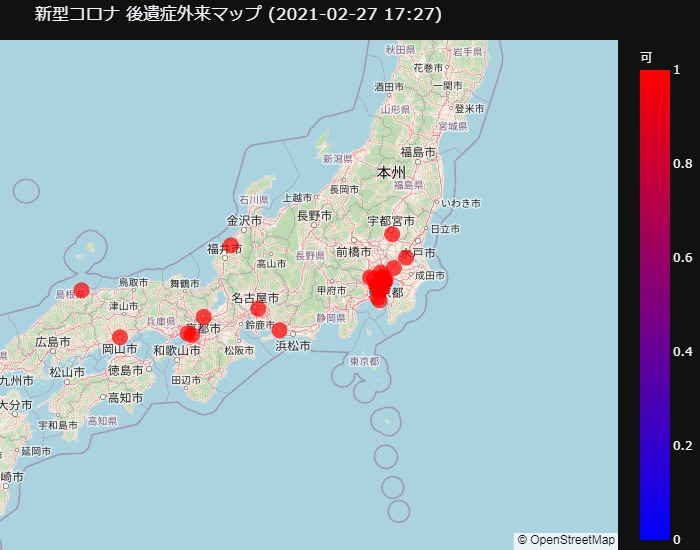
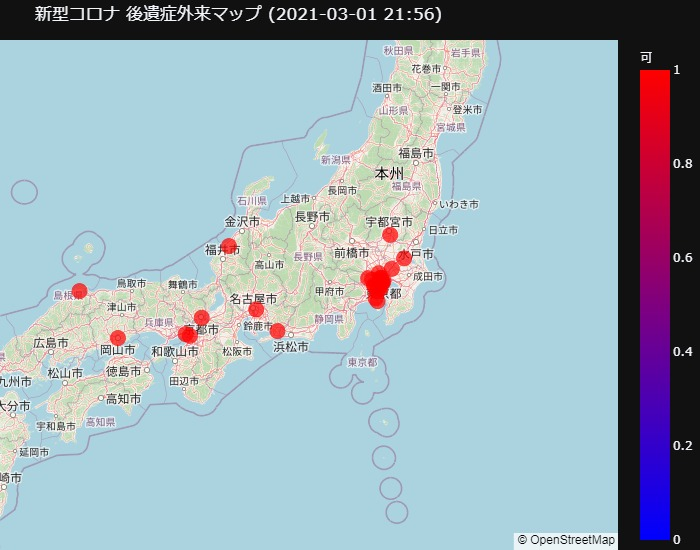
Updated with latest data.

diff --git a/docs/_includes/longcovid-map.html b/docs/_includes/longcovid-map.html
@@ -1,1 +1,1 @@
-<div>                            <div id="09ca5025-fea4-443c-b667-25869b5095d2" class="plotly-graph-div" style="height:550px; width:100%;"></div>            <script type="text/javascript">                                    window.PLOTLYENV=window.PLOTLYENV || {};                                    if (document.getElementById("09ca5025-fea4-443c-b667-25869b5095d2")) {                    Plotly.newPlot(                        "09ca5025-fea4-443c-b667-25869b5095d2",                        [{"customdata": [["-", "-", "2\u9031\u9593\u4ee5\u4e0a\u7d4c\u904e"], ["?", "?", "?"], ["\u53ef", "-", "\u521d\u8a3a\u3067\u3082\u53ef"], ["?", "?", "?"], ["?", "?", "?"], ["-", "\u4e00\u65b9", "16\u6b73\u4ee5\u4e0a\u3001\u57fa\u672c\u306f\u6f22\u65b9"], ["-", "-", "2\u301c3\u30ab\u6708\u7d4c\u904e\u3001\u8af8\u75c7\u72b6\u6709"], ["\u53ef", "\u5fc5\u8981", "\u521d\u8a3a\u3067\u3082\u53ef"], ["?", "?", "\u57fa\u672c\u306f\u6f22\u65b9\u3001\u8981\u554f\u5408\u305b"], ["?", "?", "\u57fa\u672c\u306f\u6f22\u65b9\u3001\u8981\u554f\u5408\u305b"], ["?", "?", "\u57fa\u672c\u306f\u6f22\u65b9\u3001\u8981\u554f\u5408\u305b"], ["\u53ef", "-", "\u57fa\u672c\u306f\u6f22\u65b9\u3001\u81ea\u7531\u8a3a\u7642"], ["\u53ef", "-", "-"], ["-", "-", "\u55c5\u899a\u5473\u899a\u969c\u5bb3\u5916\u6765"], ["-", "\u5fc5\u8981", "2\u30ab\u6708\u4ee5\u4e0a\u7d4c\u904e"], ["-", "-", "\u6765\u9662\u304c\u57fa\u672c"], ["\u53ef", "-", "-"], ["-", "-", "\u9694\u96e2\u671f\u9593\u7d42\u4e86"], ["?", "?", "\u7642\u990a\u7d42\u4e86\u5f8c"], ["?", "?", "\u767a\u75c73\u9031\u9593\u5f8c"], ["-", "-", "\u9000\u9662/\u7642\u990a\u5f8c2\u304b\u6708"], ["-", "-", "\u521d\u8a3a\u306f\u5bfe\u9762\u8a3a\u5bdf/\u691c\u67fb"], ["-", "-", "-"], ["?", "?", "\u795e\u7d4c\u75c7\u72b6\u4e2d\u5fc3"], ["-", "-", "\u7d39\u4ecb\u72b6\u304c\u3042\u3063\u305f\u65b9\u304c\u826f\u3044"], ["-", "\u5fc5\u8981", "3\u30ab\u6708\u4ee5\u4e0a\u7d4c\u904e"], ["?", "?", "-"], ["-", "?", "-"], ["-", "\u5fc5\u8981", "1\u30ab\u6708\u4ee5\u4e0a\u7d4c\u904e"], ["\u53ef", "-", "\u5bfe\u9762\u8a3a\u7642\u306e\u53ef\u80fd\u6027\u6709"], ["-", "-", "-"], ["-", "-", "1\u30ab\u6708\u4ee5\u4e0a\u7d4c\u904e"]], "hovertemplate": "<b>%{hovertext}</b><br><br>\u53ef=%{marker.color}<br>\u7def\u5ea6=%{lat}<br>\u7d4c\u5ea6=%{lon}<br>\u30aa\u30f3\u30e9\u30a4\u30f3=%{customdata[0]}<br>\u7d39\u4ecb\u72b6=%{customdata[1]}<br>\u6761\u4ef6=%{customdata[2]}<extra></extra>", "hovertext": ["\u30a4\u30f3\u30bf\u30fc\u30d1\u30fc\u30af\u5009\u6301\u547c\u5438\u5668\u5185\u79d1", "\u3064\u3061\u3046\u3089\u6771\u53e3\u30af\u30ea\u30cb\u30c3\u30af", "\u30d2\u30e9\u30cf\u30bf\u30af\u30ea\u30cb\u30c3\u30af", "\u9663\u5185\u8033\u9f3b\u54bd\u5589\u79d1\u30af\u30ea\u30cb\u30c3\u30af", "\u65b0\u4e2d\u91ce\u8033\u9f3b\u54bd\u5589\u79d1\u30af\u30ea\u30cb\u30c3\u30af", "\u5bfa\u7530\u30af\u30ea\u30cb\u30c3\u30af", "\u3082\u3061\u3065\u304d\u8033\u9f3b\u54bd\u5589\u79d1", "\u5317\u91cc\u5927\u5b66\u6771\u6d0b\u533b\u5b66\u7dcf\u5408\u7814\u7a76\u6240", "\u5c0f\u91d1\u4e95\u3064\u308b\u304b\u3081\u30af\u30ea\u30cb\u30c3\u30af", "\u307f\u306e\u3084\u307e\u30af\u30ea\u30cb\u30c3\u30af", "\u307f\u306e\u3084\u307e\u30af\u30ea\u30cb\u30c3\u30af\u7acb\u5ddd", "\u6771\u6587\u4e2d\u91ab\u30af\u30ea\u30cb\u30c3\u30af\u30fb\u65b0\u6a4b", "\u516c\u5e73\u75c5\u9662", "\u30af\u30ea\u30cb\u30c3\u30af\u67cf\u306e\u8449", "\u8056\u30de\u30ea\u30a2\u30f3\u30ca\u533b\u79d1\u5927\u5b66\u75c5\u9662", "\u6a2a\u6d5c\u304b\u3093\u3060\u3044\u3058\u30d5\u30a1\u30df\u30ea\u30fc\u30af\u30ea\u30cb\u30c3\u30af", "\u68b6\u304c\u8c37\u99c5\u524d\u30af\u30ea\u30cb\u30c3\u30af", "\u65b0\u5ddd\u5d0e\u3080\u3089\u305b\u5185\u79d1\u5faa\u74b0\u5668\u5185\u79d1", "\u6a2a\u6d5c\u307f\u306a\u3068\u547c\u5438\u5668\u5185\u79d1", "\u6e58\u5357\u75c5\u9662", "\u7b2c\u4e8c\u5ddd\u5d0e\u5e78\u30af\u30ea\u30cb\u30c3\u30af", "\u571f\u5c4b\u8a18\u5ff5\u30af\u30ea\u30cb\u30c3\u30af", "\u672b\u76db\u5185\u79d1\u30af\u30ea\u30cb\u30c3\u30af", "\u4f50\u85e4\u8133\u795e\u7d4c\u5916\u79d1\u30fb\u5185\u79d1\u30fb\u5916\u79d1", "\u306a\u304c\u305f\u30af\u30ea\u30cb\u30c3\u30af", "\u30ca\u30ab\u30c8\u30df\u30d5\u30a1\u30c6\u30a3\u30fc\u30b0\u30b1\u30a2\u30af\u30ea\u30cb\u30c3\u30af", "\u5fa1\u6240\u5357\u306f\u3089\u3057\u307e\u30af\u30ea\u30cb\u30c3\u30af", "\u9577\u5c3e\u30af\u30ea\u30cb\u30c3\u30af", "\u5ca1\u5c71\u5927\u5b66\u75c5\u9662", "\u798f\u7530\u5185\u79d1\u30af\u30ea\u30cb\u30c3\u30af", "\u5929\u795e\u3051\u3084\u304d\u30af\u30ea\u30cb\u30c3\u30af", "\u307f\u3089\u3044\u30af\u30ea\u30cb\u30c3\u30af"], "lat": [36.49421483, 36.07817712, 35.66099144, 35.67554272, 35.69746127, 35.72952117, 35.73184532, 35.64615518, 35.70092207, 35.65562198, 35.72698343, 35.66930295, 35.81312769, 35.89270812, 35.60075469, 35.48523182, 35.5937929, 35.55188904, 35.36818996, 35.31605077, 35.53647462, 35.57040779, 35.16620719, 34.77666781, 36.29685202, 34.690363399999995, 35.01644912, 34.72288787, 34.65090647, 35.49501807, 33.58607487, 33.59038441], "legendgroup": "", "lon": [139.9027937, 140.207013, 139.70208080000003, 139.6681197, 139.6692997, 139.6931743, 139.7026409, 139.72627219999998, 139.5058372, 139.73607180000002, 139.4179435, 139.7537904, 139.6527044, 139.9377533, 139.5488861, 139.61037869999998, 139.6063036, 139.6629341, 139.58114630000003, 139.6242106, 139.689216, 139.55500580000003, 136.9580622, 137.4248136, 136.3598447, 135.49824080000002, 135.76120600000002, 135.4083263, 133.9206308, 133.0761817, 130.3950466, 130.423525], "marker": {"color": [1, 1, 1, 1, 1, 1, 1, 1, 1, 1, 1, 1, 1, 1, 1, 1, 1, 1, 1, 1, 1, 1, 1, 1, 1, 1, 1, 1, 1, 1, 0, 1], "coloraxis": "coloraxis", "size": [1, 1, 1, 1, 1, 1, 1, 1, 1, 1, 1, 1, 1, 1, 1, 1, 1, 1, 1, 1, 1, 1, 1, 1, 1, 1, 1, 1, 1, 1, 0, 1], "sizemode": "area", "sizeref": 0.006944444444444444}, "mode": "markers", "name": "", "showlegend": false, "subplot": "mapbox", "type": "scattermapbox"}],                        {"coloraxis": {"colorbar": {"title": {"text": "\u53ef"}}, "colorscale": [[0.0, "rgb(0,0,255)"], [1.0, "rgb(255,0,0)"]]}, "height": 550, "legend": {"itemsizing": "constant", "tracegroupgap": 0}, "mapbox": {"center": {"lat": 35.412099315937496, "lon": 138.07435793125}, "domain": {"x": [0.0, 1.0], "y": [0.0, 1.0]}, "style": "open-street-map", "zoom": 5}, "margin": {"b": 0, "l": 0, "r": 0, "t": 40}, "template": {"data": {"bar": [{"error_x": {"color": "#f2f5fa"}, "error_y": {"color": "#f2f5fa"}, "marker": {"line": {"color": "rgb(17,17,17)", "width": 0.5}}, "type": "bar"}], "barpolar": [{"marker": {"line": {"color": "rgb(17,17,17)", "width": 0.5}}, "type": "barpolar"}], "carpet": [{"aaxis": {"endlinecolor": "#A2B1C6", "gridcolor": "#506784", "linecolor": "#506784", "minorgridcolor": "#506784", "startlinecolor": "#A2B1C6"}, "baxis": {"endlinecolor": "#A2B1C6", "gridcolor": "#506784", "linecolor": "#506784", "minorgridcolor": "#506784", "startlinecolor": "#A2B1C6"}, "type": "carpet"}], "choropleth": [{"colorbar": {"outlinewidth": 0, "ticks": ""}, "type": "choropleth"}], "contour": [{"colorbar": {"outlinewidth": 0, "ticks": ""}, "colorscale": [[0.0, "#0d0887"], [0.1111111111111111, "#46039f"], [0.2222222222222222, "#7201a8"], [0.3333333333333333, "#9c179e"], [0.4444444444444444, "#bd3786"], [0.5555555555555556, "#d8576b"], [0.6666666666666666, "#ed7953"], [0.7777777777777778, "#fb9f3a"], [0.8888888888888888, "#fdca26"], [1.0, "#f0f921"]], "type": "contour"}], "contourcarpet": [{"colorbar": {"outlinewidth": 0, "ticks": ""}, "type": "contourcarpet"}], "heatmap": [{"colorbar": {"outlinewidth": 0, "ticks": ""}, "colorscale": [[0.0, "#0d0887"], [0.1111111111111111, "#46039f"], [0.2222222222222222, "#7201a8"], [0.3333333333333333, "#9c179e"], [0.4444444444444444, "#bd3786"], [0.5555555555555556, "#d8576b"], [0.6666666666666666, "#ed7953"], [0.7777777777777778, "#fb9f3a"], [0.8888888888888888, "#fdca26"], [1.0, "#f0f921"]], "type": "heatmap"}], "heatmapgl": [{"colorbar": {"outlinewidth": 0, "ticks": ""}, "colorscale": [[0.0, "#0d0887"], [0.1111111111111111, "#46039f"], [0.2222222222222222, "#7201a8"], [0.3333333333333333, "#9c179e"], [0.4444444444444444, "#bd3786"], [0.5555555555555556, "#d8576b"], [0.6666666666666666, "#ed7953"], [0.7777777777777778, "#fb9f3a"], [0.8888888888888888, "#fdca26"], [1.0, "#f0f921"]], "type": "heatmapgl"}], "histogram": [{"marker": {"colorbar": {"outlinewidth": 0, "ticks": ""}}, "type": "histogram"}], "histogram2d": [{"colorbar": {"outlinewidth": 0, "ticks": ""}, "colorscale": [[0.0, "#0d0887"], [0.1111111111111111, "#46039f"], [0.2222222222222222, "#7201a8"], [0.3333333333333333, "#9c179e"], [0.4444444444444444, "#bd3786"], [0.5555555555555556, "#d8576b"], [0.6666666666666666, "#ed7953"], [0.7777777777777778, "#fb9f3a"], [0.8888888888888888, "#fdca26"], [1.0, "#f0f921"]], "type": "histogram2d"}], "histogram2dcontour": [{"colorbar": {"outlinewidth": 0, "ticks": ""}, "colorscale": [[0.0, "#0d0887"], [0.1111111111111111, "#46039f"], [0.2222222222222222, "#7201a8"], [0.3333333333333333, "#9c179e"], [0.4444444444444444, "#bd3786"], [0.5555555555555556, "#d8576b"], [0.6666666666666666, "#ed7953"], [0.7777777777777778, "#fb9f3a"], [0.8888888888888888, "#fdca26"], [1.0, "#f0f921"]], "type": "histogram2dcontour"}], "mesh3d": [{"colorbar": {"outlinewidth": 0, "ticks": ""}, "type": "mesh3d"}], "parcoords": [{"line": {"colorbar": {"outlinewidth": 0, "ticks": ""}}, "type": "parcoords"}], "pie": [{"automargin": true, "type": "pie"}], "scatter": [{"marker": {"line": {"color": "#283442"}}, "type": "scatter"}], "scatter3d": [{"line": {"colorbar": {"outlinewidth": 0, "ticks": ""}}, "marker": {"colorbar": {"outlinewidth": 0, "ticks": ""}}, "type": "scatter3d"}], "scattercarpet": [{"marker": {"colorbar": {"outlinewidth": 0, "ticks": ""}}, "type": "scattercarpet"}], "scattergeo": [{"marker": {"colorbar": {"outlinewidth": 0, "ticks": ""}}, "type": "scattergeo"}], "scattergl": [{"marker": {"line": {"color": "#283442"}}, "type": "scattergl"}], "scattermapbox": [{"marker": {"colorbar": {"outlinewidth": 0, "ticks": ""}}, "type": "scattermapbox"}], "scatterpolar": [{"marker": {"colorbar": {"outlinewidth": 0, "ticks": ""}}, "type": "scatterpolar"}], "scatterpolargl": [{"marker": {"colorbar": {"outlinewidth": 0, "ticks": ""}}, "type": "scatterpolargl"}], "scatterternary": [{"marker": {"colorbar": {"outlinewidth": 0, "ticks": ""}}, "type": "scatterternary"}], "surface": [{"colorbar": {"outlinewidth": 0, "ticks": ""}, "colorscale": [[0.0, "#0d0887"], [0.1111111111111111, "#46039f"], [0.2222222222222222, "#7201a8"], [0.3333333333333333, "#9c179e"], [0.4444444444444444, "#bd3786"], [0.5555555555555556, "#d8576b"], [0.6666666666666666, "#ed7953"], [0.7777777777777778, "#fb9f3a"], [0.8888888888888888, "#fdca26"], [1.0, "#f0f921"]], "type": "surface"}], "table": [{"cells": {"fill": {"color": "#506784"}, "line": {"color": "rgb(17,17,17)"}}, "header": {"fill": {"color": "#2a3f5f"}, "line": {"color": "rgb(17,17,17)"}}, "type": "table"}]}, "layout": {"annotationdefaults": {"arrowcolor": "#f2f5fa", "arrowhead": 0, "arrowwidth": 1}, "autotypenumbers": "strict", "coloraxis": {"colorbar": {"outlinewidth": 0, "ticks": ""}}, "colorscale": {"diverging": [[0, "#8e0152"], [0.1, "#c51b7d"], [0.2, "#de77ae"], [0.3, "#f1b6da"], [0.4, "#fde0ef"], [0.5, "#f7f7f7"], [0.6, "#e6f5d0"], [0.7, "#b8e186"], [0.8, "#7fbc41"], [0.9, "#4d9221"], [1, "#276419"]], "sequential": [[0.0, "#0d0887"], [0.1111111111111111, "#46039f"], [0.2222222222222222, "#7201a8"], [0.3333333333333333, "#9c179e"], [0.4444444444444444, "#bd3786"], [0.5555555555555556, "#d8576b"], [0.6666666666666666, "#ed7953"], [0.7777777777777778, "#fb9f3a"], [0.8888888888888888, "#fdca26"], [1.0, "#f0f921"]], "sequentialminus": [[0.0, "#0d0887"], [0.1111111111111111, "#46039f"], [0.2222222222222222, "#7201a8"], [0.3333333333333333, "#9c179e"], [0.4444444444444444, "#bd3786"], [0.5555555555555556, "#d8576b"], [0.6666666666666666, "#ed7953"], [0.7777777777777778, "#fb9f3a"], [0.8888888888888888, "#fdca26"], [1.0, "#f0f921"]]}, "colorway": ["#636efa", "#EF553B", "#00cc96", "#ab63fa", "#FFA15A", "#19d3f3", "#FF6692", "#B6E880", "#FF97FF", "#FECB52"], "font": {"color": "#f2f5fa"}, "geo": {"bgcolor": "rgb(17,17,17)", "lakecolor": "rgb(17,17,17)", "landcolor": "rgb(17,17,17)", "showlakes": true, "showland": true, "subunitcolor": "#506784"}, "hoverlabel": {"align": "left"}, "hovermode": "closest", "mapbox": {"style": "dark"}, "paper_bgcolor": "rgb(17,17,17)", "plot_bgcolor": "rgb(17,17,17)", "polar": {"angularaxis": {"gridcolor": "#506784", "linecolor": "#506784", "ticks": ""}, "bgcolor": "rgb(17,17,17)", "radialaxis": {"gridcolor": "#506784", "linecolor": "#506784", "ticks": ""}}, "scene": {"xaxis": {"backgroundcolor": "rgb(17,17,17)", "gridcolor": "#506784", "gridwidth": 2, "linecolor": "#506784", "showbackground": true, "ticks": "", "zerolinecolor": "#C8D4E3"}, "yaxis": {"backgroundcolor": "rgb(17,17,17)", "gridcolor": "#506784", "gridwidth": 2, "linecolor": "#506784", "showbackground": true, "ticks": "", "zerolinecolor": "#C8D4E3"}, "zaxis": {"backgroundcolor": "rgb(17,17,17)", "gridcolor": "#506784", "gridwidth": 2, "linecolor": "#506784", "showbackground": true, "ticks": "", "zerolinecolor": "#C8D4E3"}}, "shapedefaults": {"line": {"color": "#f2f5fa"}}, "sliderdefaults": {"bgcolor": "#C8D4E3", "bordercolor": "rgb(17,17,17)", "borderwidth": 1, "tickwidth": 0}, "ternary": {"aaxis": {"gridcolor": "#506784", "linecolor": "#506784", "ticks": ""}, "baxis": {"gridcolor": "#506784", "linecolor": "#506784", "ticks": ""}, "bgcolor": "rgb(17,17,17)", "caxis": {"gridcolor": "#506784", "linecolor": "#506784", "ticks": ""}}, "title": {"x": 0.05}, "updatemenudefaults": {"bgcolor": "#506784", "borderwidth": 0}, "xaxis": {"automargin": true, "gridcolor": "#283442", "linecolor": "#506784", "ticks": "", "title": {"standoff": 15}, "zerolinecolor": "#283442", "zerolinewidth": 2}, "yaxis": {"automargin": true, "gridcolor": "#283442", "linecolor": "#506784", "ticks": "", "title": {"standoff": 15}, "zerolinecolor": "#283442", "zerolinewidth": 2}}}, "title": {"text": "\u65b0\u578b\u30b3\u30ed\u30ca \u5f8c\u907a\u75c7\u5916\u6765\u30de\u30c3\u30d7 (2021-02-27 17:27)"}},                        {"responsive": true}                    )                };                            </script>        </div>
+<div>                            <div id="1dfd35a6-3fb7-4fd1-b5f1-62437581516c" class="plotly-graph-div" style="height:550px; width:100%;"></div>            <script type="text/javascript">                                    window.PLOTLYENV=window.PLOTLYENV || {};                                    if (document.getElementById("1dfd35a6-3fb7-4fd1-b5f1-62437581516c")) {                    Plotly.newPlot(                        "1dfd35a6-3fb7-4fd1-b5f1-62437581516c",                        [{"customdata": [["-", "-", "2\u9031\u9593\u4ee5\u4e0a\u7d4c\u904e"], ["?", "?", "?"], ["\u53ef", "-", "\u521d\u8a3a\u3067\u3082\u53ef"], ["?", "?", "?"], ["?", "?", "?"], ["-", "\u4e00\u65b9", "16\u6b73\u4ee5\u4e0a\u3001\u57fa\u672c\u306f\u6f22\u65b9"], ["-", "-", "2\u301c3\u30ab\u6708\u7d4c\u904e\u3001\u8af8\u75c7\u72b6\u6709"], ["\u53ef", "\u5fc5\u8981", "\u521d\u8a3a\u3067\u3082\u53ef"], ["?", "?", "\u57fa\u672c\u306f\u6f22\u65b9\u3001\u8981\u554f\u5408\u305b"], ["?", "?", "\u57fa\u672c\u306f\u6f22\u65b9\u3001\u8981\u554f\u5408\u305b"], ["?", "?", "\u57fa\u672c\u306f\u6f22\u65b9\u3001\u8981\u554f\u5408\u305b"], ["\u53ef", "-", "\u57fa\u672c\u306f\u6f22\u65b9\u3001\u81ea\u7531\u8a3a\u7642"], ["\u53ef", "-", "-"], ["\u53ef", "-", "3\u6708\u4e2d\u65ec\u301c\u4e0b\u65ec\u306b\u65b0\u8a2d\u4e88\u5b9a"], ["-", "-", "\u55c5\u899a\u5473\u899a\u969c\u5bb3\u5916\u6765"], ["-", "\u5fc5\u8981", "2\u30ab\u6708\u4ee5\u4e0a\u7d4c\u904e"], ["-", "-", "\u6765\u9662\u304c\u57fa\u672c"], ["\u53ef", "-", "-"], ["-", "-", "\u9694\u96e2\u671f\u9593\u7d42\u4e86"], ["?", "?", "\u7642\u990a\u7d42\u4e86\u5f8c"], ["?", "?", "\u767a\u75c73\u9031\u9593\u5f8c"], ["-", "-", "\u9000\u9662/\u7642\u990a\u5f8c2\u304b\u6708"], ["-", "-", "\u521d\u8a3a\u306f\u5bfe\u9762\u8a3a\u5bdf/\u691c\u67fb"], ["-", "-", "-"], ["?", "?", "\u795e\u7d4c\u75c7\u72b6\u4e2d\u5fc3"], ["-", "-", "\u7d39\u4ecb\u72b6\u304c\u3042\u3063\u305f\u65b9\u304c\u826f\u3044"], ["-", "\u5fc5\u8981", "3\u30ab\u6708\u4ee5\u4e0a\u7d4c\u904e"], ["?", "?", "-"], ["-", "?", "-"], ["-", "\u5fc5\u8981", "1\u30ab\u6708\u4ee5\u4e0a\u7d4c\u904e"], ["\u53ef", "-", "\u5bfe\u9762\u8a3a\u7642\u306e\u53ef\u80fd\u6027\u6709"], ["-", "-", "-"], ["-", "-", "1\u30ab\u6708\u4ee5\u4e0a\u7d4c\u904e"]], "hovertemplate": "<b>%{hovertext}</b><br><br>\u53ef=%{marker.color}<br>\u7def\u5ea6=%{lat}<br>\u7d4c\u5ea6=%{lon}<br>\u30aa\u30f3\u30e9\u30a4\u30f3=%{customdata[0]}<br>\u7d39\u4ecb\u72b6=%{customdata[1]}<br>\u6761\u4ef6=%{customdata[2]}<extra></extra>", "hovertext": ["\u30a4\u30f3\u30bf\u30fc\u30d1\u30fc\u30af\u5009\u6301\u547c\u5438\u5668\u5185\u79d1", "\u3064\u3061\u3046\u3089\u6771\u53e3\u30af\u30ea\u30cb\u30c3\u30af", "\u30d2\u30e9\u30cf\u30bf\u30af\u30ea\u30cb\u30c3\u30af", "\u9663\u5185\u8033\u9f3b\u54bd\u5589\u79d1\u30af\u30ea\u30cb\u30c3\u30af", "\u65b0\u4e2d\u91ce\u8033\u9f3b\u54bd\u5589\u79d1\u30af\u30ea\u30cb\u30c3\u30af", "\u5bfa\u7530\u30af\u30ea\u30cb\u30c3\u30af", "\u3082\u3061\u3065\u304d\u8033\u9f3b\u54bd\u5589\u79d1", "\u5317\u91cc\u5927\u5b66\u6771\u6d0b\u533b\u5b66\u7dcf\u5408\u7814\u7a76\u6240", "\u5c0f\u91d1\u4e95\u3064\u308b\u304b\u3081\u30af\u30ea\u30cb\u30c3\u30af", "\u307f\u306e\u3084\u307e\u30af\u30ea\u30cb\u30c3\u30af", "\u307f\u306e\u3084\u307e\u30af\u30ea\u30cb\u30c3\u30af\u7acb\u5ddd", "\u6771\u6587\u4e2d\u91ab\u30af\u30ea\u30cb\u30c3\u30af\u30fb\u65b0\u6a4b", "\u516c\u5e73\u75c5\u9662", "\u3075\u3058\u307f\u306e\u6551\u6025\u75c5\u9662", "\u30af\u30ea\u30cb\u30c3\u30af\u67cf\u306e\u8449", "\u8056\u30de\u30ea\u30a2\u30f3\u30ca\u533b\u79d1\u5927\u5b66\u75c5\u9662", "\u6a2a\u6d5c\u304b\u3093\u3060\u3044\u3058\u30d5\u30a1\u30df\u30ea\u30fc\u30af\u30ea\u30cb\u30c3\u30af", "\u68b6\u304c\u8c37\u99c5\u524d\u30af\u30ea\u30cb\u30c3\u30af", "\u65b0\u5ddd\u5d0e\u3080\u3089\u305b\u5185\u79d1\u5faa\u74b0\u5668\u5185\u79d1", "\u6a2a\u6d5c\u307f\u306a\u3068\u547c\u5438\u5668\u5185\u79d1", "\u6e58\u5357\u75c5\u9662", "\u7b2c\u4e8c\u5ddd\u5d0e\u5e78\u30af\u30ea\u30cb\u30c3\u30af", "\u571f\u5c4b\u8a18\u5ff5\u30af\u30ea\u30cb\u30c3\u30af", "\u672b\u76db\u5185\u79d1\u30af\u30ea\u30cb\u30c3\u30af", "\u4f50\u85e4\u8133\u795e\u7d4c\u5916\u79d1\u30fb\u5185\u79d1\u30fb\u5916\u79d1", "\u306a\u304c\u305f\u30af\u30ea\u30cb\u30c3\u30af", "\u30ca\u30ab\u30c8\u30df\u30d5\u30a1\u30c6\u30a3\u30fc\u30b0\u30b1\u30a2\u30af\u30ea\u30cb\u30c3\u30af", "\u5fa1\u6240\u5357\u306f\u3089\u3057\u307e\u30af\u30ea\u30cb\u30c3\u30af", "\u9577\u5c3e\u30af\u30ea\u30cb\u30c3\u30af", "\u5ca1\u5c71\u5927\u5b66\u75c5\u9662", "\u798f\u7530\u5185\u79d1\u30af\u30ea\u30cb\u30c3\u30af", "\u5929\u795e\u3051\u3084\u304d\u30af\u30ea\u30cb\u30c3\u30af", "\u307f\u3089\u3044\u30af\u30ea\u30cb\u30c3\u30af"], "lat": [36.49421483, 36.07817712, 35.66099144, 35.67554272, 35.69746127, 35.72952117, 35.73184532, 35.64615518, 35.70092207, 35.65562198, 35.72698343, 35.66930295, 35.81312769, 35.85103279, 35.89270812, 35.60075469, 35.48523182, 35.5937929, 35.55188904, 35.36818996, 35.31605077, 35.53647462, 35.57040779, 35.16620719, 34.77666781, 36.29685202, 34.690363399999995, 35.01644912, 34.72288787, 34.65090647, 35.49501807, 33.58607487, 33.59038441], "legendgroup": "", "lon": [139.9027937, 140.207013, 139.70208080000003, 139.6681197, 139.6692997, 139.6931743, 139.7026409, 139.72627219999998, 139.5058372, 139.73607180000002, 139.4179435, 139.7537904, 139.6527044, 139.50904530000003, 139.9377533, 139.5488861, 139.61037869999998, 139.6063036, 139.6629341, 139.58114630000003, 139.6242106, 139.689216, 139.55500580000003, 136.9580622, 137.4248136, 136.3598447, 135.49824080000002, 135.76120600000002, 135.4083263, 133.9206308, 133.0761817, 130.3950466, 130.423525], "marker": {"color": [1, 1, 1, 1, 1, 1, 1, 1, 1, 1, 1, 1, 1, 0, 1, 1, 1, 1, 1, 1, 1, 1, 1, 1, 1, 1, 1, 1, 1, 1, 1, 0, 1], "coloraxis": "coloraxis", "size": [1, 1, 1, 1, 1, 1, 1, 1, 1, 1, 1, 1, 1, 0, 1, 1, 1, 1, 1, 1, 1, 1, 1, 1, 1, 1, 1, 1, 1, 1, 1, 0, 1], "sizemode": "area", "sizeref": 0.006944444444444444}, "mode": "markers", "name": "", "showlegend": false, "subplot": "mapbox", "type": "scattermapbox"}],                        {"coloraxis": {"colorbar": {"title": {"text": "\u53ef"}}, "colorscale": [[0.0, "rgb(0,0,255)"], [1.0, "rgb(255,0,0)"]]}, "height": 550, "legend": {"itemsizing": "constant", "tracegroupgap": 0}, "mapbox": {"center": {"lat": 35.42540033030303, "lon": 138.11783330606062}, "domain": {"x": [0.0, 1.0], "y": [0.0, 1.0]}, "style": "open-street-map", "zoom": 5}, "margin": {"b": 0, "l": 0, "r": 0, "t": 40}, "template": {"data": {"bar": [{"error_x": {"color": "#f2f5fa"}, "error_y": {"color": "#f2f5fa"}, "marker": {"line": {"color": "rgb(17,17,17)", "width": 0.5}}, "type": "bar"}], "barpolar": [{"marker": {"line": {"color": "rgb(17,17,17)", "width": 0.5}}, "type": "barpolar"}], "carpet": [{"aaxis": {"endlinecolor": "#A2B1C6", "gridcolor": "#506784", "linecolor": "#506784", "minorgridcolor": "#506784", "startlinecolor": "#A2B1C6"}, "baxis": {"endlinecolor": "#A2B1C6", "gridcolor": "#506784", "linecolor": "#506784", "minorgridcolor": "#506784", "startlinecolor": "#A2B1C6"}, "type": "carpet"}], "choropleth": [{"colorbar": {"outlinewidth": 0, "ticks": ""}, "type": "choropleth"}], "contour": [{"colorbar": {"outlinewidth": 0, "ticks": ""}, "colorscale": [[0.0, "#0d0887"], [0.1111111111111111, "#46039f"], [0.2222222222222222, "#7201a8"], [0.3333333333333333, "#9c179e"], [0.4444444444444444, "#bd3786"], [0.5555555555555556, "#d8576b"], [0.6666666666666666, "#ed7953"], [0.7777777777777778, "#fb9f3a"], [0.8888888888888888, "#fdca26"], [1.0, "#f0f921"]], "type": "contour"}], "contourcarpet": [{"colorbar": {"outlinewidth": 0, "ticks": ""}, "type": "contourcarpet"}], "heatmap": [{"colorbar": {"outlinewidth": 0, "ticks": ""}, "colorscale": [[0.0, "#0d0887"], [0.1111111111111111, "#46039f"], [0.2222222222222222, "#7201a8"], [0.3333333333333333, "#9c179e"], [0.4444444444444444, "#bd3786"], [0.5555555555555556, "#d8576b"], [0.6666666666666666, "#ed7953"], [0.7777777777777778, "#fb9f3a"], [0.8888888888888888, "#fdca26"], [1.0, "#f0f921"]], "type": "heatmap"}], "heatmapgl": [{"colorbar": {"outlinewidth": 0, "ticks": ""}, "colorscale": [[0.0, "#0d0887"], [0.1111111111111111, "#46039f"], [0.2222222222222222, "#7201a8"], [0.3333333333333333, "#9c179e"], [0.4444444444444444, "#bd3786"], [0.5555555555555556, "#d8576b"], [0.6666666666666666, "#ed7953"], [0.7777777777777778, "#fb9f3a"], [0.8888888888888888, "#fdca26"], [1.0, "#f0f921"]], "type": "heatmapgl"}], "histogram": [{"marker": {"colorbar": {"outlinewidth": 0, "ticks": ""}}, "type": "histogram"}], "histogram2d": [{"colorbar": {"outlinewidth": 0, "ticks": ""}, "colorscale": [[0.0, "#0d0887"], [0.1111111111111111, "#46039f"], [0.2222222222222222, "#7201a8"], [0.3333333333333333, "#9c179e"], [0.4444444444444444, "#bd3786"], [0.5555555555555556, "#d8576b"], [0.6666666666666666, "#ed7953"], [0.7777777777777778, "#fb9f3a"], [0.8888888888888888, "#fdca26"], [1.0, "#f0f921"]], "type": "histogram2d"}], "histogram2dcontour": [{"colorbar": {"outlinewidth": 0, "ticks": ""}, "colorscale": [[0.0, "#0d0887"], [0.1111111111111111, "#46039f"], [0.2222222222222222, "#7201a8"], [0.3333333333333333, "#9c179e"], [0.4444444444444444, "#bd3786"], [0.5555555555555556, "#d8576b"], [0.6666666666666666, "#ed7953"], [0.7777777777777778, "#fb9f3a"], [0.8888888888888888, "#fdca26"], [1.0, "#f0f921"]], "type": "histogram2dcontour"}], "mesh3d": [{"colorbar": {"outlinewidth": 0, "ticks": ""}, "type": "mesh3d"}], "parcoords": [{"line": {"colorbar": {"outlinewidth": 0, "ticks": ""}}, "type": "parcoords"}], "pie": [{"automargin": true, "type": "pie"}], "scatter": [{"marker": {"line": {"color": "#283442"}}, "type": "scatter"}], "scatter3d": [{"line": {"colorbar": {"outlinewidth": 0, "ticks": ""}}, "marker": {"colorbar": {"outlinewidth": 0, "ticks": ""}}, "type": "scatter3d"}], "scattercarpet": [{"marker": {"colorbar": {"outlinewidth": 0, "ticks": ""}}, "type": "scattercarpet"}], "scattergeo": [{"marker": {"colorbar": {"outlinewidth": 0, "ticks": ""}}, "type": "scattergeo"}], "scattergl": [{"marker": {"line": {"color": "#283442"}}, "type": "scattergl"}], "scattermapbox": [{"marker": {"colorbar": {"outlinewidth": 0, "ticks": ""}}, "type": "scattermapbox"}], "scatterpolar": [{"marker": {"colorbar": {"outlinewidth": 0, "ticks": ""}}, "type": "scatterpolar"}], "scatterpolargl": [{"marker": {"colorbar": {"outlinewidth": 0, "ticks": ""}}, "type": "scatterpolargl"}], "scatterternary": [{"marker": {"colorbar": {"outlinewidth": 0, "ticks": ""}}, "type": "scatterternary"}], "surface": [{"colorbar": {"outlinewidth": 0, "ticks": ""}, "colorscale": [[0.0, "#0d0887"], [0.1111111111111111, "#46039f"], [0.2222222222222222, "#7201a8"], [0.3333333333333333, "#9c179e"], [0.4444444444444444, "#bd3786"], [0.5555555555555556, "#d8576b"], [0.6666666666666666, "#ed7953"], [0.7777777777777778, "#fb9f3a"], [0.8888888888888888, "#fdca26"], [1.0, "#f0f921"]], "type": "surface"}], "table": [{"cells": {"fill": {"color": "#506784"}, "line": {"color": "rgb(17,17,17)"}}, "header": {"fill": {"color": "#2a3f5f"}, "line": {"color": "rgb(17,17,17)"}}, "type": "table"}]}, "layout": {"annotationdefaults": {"arrowcolor": "#f2f5fa", "arrowhead": 0, "arrowwidth": 1}, "autotypenumbers": "strict", "coloraxis": {"colorbar": {"outlinewidth": 0, "ticks": ""}}, "colorscale": {"diverging": [[0, "#8e0152"], [0.1, "#c51b7d"], [0.2, "#de77ae"], [0.3, "#f1b6da"], [0.4, "#fde0ef"], [0.5, "#f7f7f7"], [0.6, "#e6f5d0"], [0.7, "#b8e186"], [0.8, "#7fbc41"], [0.9, "#4d9221"], [1, "#276419"]], "sequential": [[0.0, "#0d0887"], [0.1111111111111111, "#46039f"], [0.2222222222222222, "#7201a8"], [0.3333333333333333, "#9c179e"], [0.4444444444444444, "#bd3786"], [0.5555555555555556, "#d8576b"], [0.6666666666666666, "#ed7953"], [0.7777777777777778, "#fb9f3a"], [0.8888888888888888, "#fdca26"], [1.0, "#f0f921"]], "sequentialminus": [[0.0, "#0d0887"], [0.1111111111111111, "#46039f"], [0.2222222222222222, "#7201a8"], [0.3333333333333333, "#9c179e"], [0.4444444444444444, "#bd3786"], [0.5555555555555556, "#d8576b"], [0.6666666666666666, "#ed7953"], [0.7777777777777778, "#fb9f3a"], [0.8888888888888888, "#fdca26"], [1.0, "#f0f921"]]}, "colorway": ["#636efa", "#EF553B", "#00cc96", "#ab63fa", "#FFA15A", "#19d3f3", "#FF6692", "#B6E880", "#FF97FF", "#FECB52"], "font": {"color": "#f2f5fa"}, "geo": {"bgcolor": "rgb(17,17,17)", "lakecolor": "rgb(17,17,17)", "landcolor": "rgb(17,17,17)", "showlakes": true, "showland": true, "subunitcolor": "#506784"}, "hoverlabel": {"align": "left"}, "hovermode": "closest", "mapbox": {"style": "dark"}, "paper_bgcolor": "rgb(17,17,17)", "plot_bgcolor": "rgb(17,17,17)", "polar": {"angularaxis": {"gridcolor": "#506784", "linecolor": "#506784", "ticks": ""}, "bgcolor": "rgb(17,17,17)", "radialaxis": {"gridcolor": "#506784", "linecolor": "#506784", "ticks": ""}}, "scene": {"xaxis": {"backgroundcolor": "rgb(17,17,17)", "gridcolor": "#506784", "gridwidth": 2, "linecolor": "#506784", "showbackground": true, "ticks": "", "zerolinecolor": "#C8D4E3"}, "yaxis": {"backgroundcolor": "rgb(17,17,17)", "gridcolor": "#506784", "gridwidth": 2, "linecolor": "#506784", "showbackground": true, "ticks": "", "zerolinecolor": "#C8D4E3"}, "zaxis": {"backgroundcolor": "rgb(17,17,17)", "gridcolor": "#506784", "gridwidth": 2, "linecolor": "#506784", "showbackground": true, "ticks": "", "zerolinecolor": "#C8D4E3"}}, "shapedefaults": {"line": {"color": "#f2f5fa"}}, "sliderdefaults": {"bgcolor": "#C8D4E3", "bordercolor": "rgb(17,17,17)", "borderwidth": 1, "tickwidth": 0}, "ternary": {"aaxis": {"gridcolor": "#506784", "linecolor": "#506784", "ticks": ""}, "baxis": {"gridcolor": "#506784", "linecolor": "#506784", "ticks": ""}, "bgcolor": "rgb(17,17,17)", "caxis": {"gridcolor": "#506784", "linecolor": "#506784", "ticks": ""}}, "title": {"x": 0.05}, "updatemenudefaults": {"bgcolor": "#506784", "borderwidth": 0}, "xaxis": {"automargin": true, "gridcolor": "#283442", "linecolor": "#506784", "ticks": "", "title": {"standoff": 15}, "zerolinecolor": "#283442", "zerolinewidth": 2}, "yaxis": {"automargin": true, "gridcolor": "#283442", "linecolor": "#506784", "ticks": "", "title": {"standoff": 15}, "zerolinecolor": "#283442", "zerolinewidth": 2}}}, "title": {"text": "\u65b0\u578b\u30b3\u30ed\u30ca \u5f8c\u907a\u75c7\u5916\u6765\u30de\u30c3\u30d7 (2021-03-01 21:56)"}},                        {"responsive": true}                    )                };                            </script>        </div>

diff --git a/docs/_includes/longcovid-table.html b/docs/_includes/longcovid-table.html
@@ -35,23 +35,24 @@
 <tr bgcolor="#606060"><td class="MapsTblColNo">関東</td><td class="MapsTblColSt">東京都</td><td class="MapsTblColNm">みのやまクリニック立川</td><td class="MapsTblColEn">1</td><td class="MapsTblColOL">?</td><td class="MapsTblColRS">?</td><td class="MapsTblColCd">基本は漢方、要問合せ</td><td class="MapsTblColHP"><a href="http://www.mino-clinic-tkw.com/index.html">HP</a></td></tr>
 <tr bgcolor="#000000"><td class="MapsTblColNo">関東</td><td class="MapsTblColSt">東京都</td><td class="MapsTblColNm">東文中醫クリニック・新橋</td><td class="MapsTblColEn">1</td><td class="MapsTblColOL">可</td><td class="MapsTblColRS">-</td><td class="MapsTblColCd">基本は漢方、自由診療</td><td class="MapsTblColHP"><a href="https://tbtcm.jp/">HP</a></td></tr>
 <tr bgcolor="#606060"><td class="MapsTblColNo">関東</td><td class="MapsTblColSt">埼玉県</td><td class="MapsTblColNm">公平病院</td><td class="MapsTblColEn">1</td><td class="MapsTblColOL">可</td><td class="MapsTblColRS">-</td><td class="MapsTblColCd">-</td><td class="MapsTblColHP"><a href="https://kodaira.life/covid19/long-covid.php">HP</a></td></tr>
-<tr bgcolor="#000000"><td class="MapsTblColNo">関東</td><td class="MapsTblColSt">千葉県</td><td class="MapsTblColNm">クリニック柏の葉</td><td class="MapsTblColEn">1</td><td class="MapsTblColOL">-</td><td class="MapsTblColRS">-</td><td class="MapsTblColCd">嗅覚味覚障害外来</td><td class="MapsTblColHP"><a href="https://cl-kashiwanoha.jp/category/news/#no20210205083016">HP</a></td></tr>
-<tr bgcolor="#606060"><td class="MapsTblColNo">関東</td><td class="MapsTblColSt">神奈川県</td><td class="MapsTblColNm">聖マリアンナ医科大学病院</td><td class="MapsTblColEn">1</td><td class="MapsTblColOL">-</td><td class="MapsTblColRS">必要</td><td class="MapsTblColCd">2カ月以上経過</td><td class="MapsTblColHP"><a href="https://www.marianna-u.ac.jp/hospital/kanja/specialty/specialty_24.html">HP</a></td></tr>
-<tr bgcolor="#000000"><td class="MapsTblColNo">関東</td><td class="MapsTblColSt">神奈川県</td><td class="MapsTblColNm">横浜かんだいじファミリークリニック</td><td class="MapsTblColEn">1</td><td class="MapsTblColOL">-</td><td class="MapsTblColRS">-</td><td class="MapsTblColCd">来院が基本</td><td class="MapsTblColHP"><a href="https://yokohama-kandaiji-family-clinic.jp/LONG-COVID">HP</a></td></tr>
-<tr bgcolor="#606060"><td class="MapsTblColNo">関東</td><td class="MapsTblColSt">神奈川県</td><td class="MapsTblColNm">梶が谷駅前クリニック</td><td class="MapsTblColEn">1</td><td class="MapsTblColOL">可</td><td class="MapsTblColRS">-</td><td class="MapsTblColCd">-</td><td class="MapsTblColHP"><a href="https://kajigayaekimaenaika-clinic.com">HP</a></td></tr>
-<tr bgcolor="#000000"><td class="MapsTblColNo">関東</td><td class="MapsTblColSt">神奈川県</td><td class="MapsTblColNm">新川崎むらせ内科循環器内科</td><td class="MapsTblColEn">1</td><td class="MapsTblColOL">-</td><td class="MapsTblColRS">-</td><td class="MapsTblColCd">隔離期間終了</td><td class="MapsTblColHP"><a href="http://shinkawasaki-murase.com/blog/2021/02/01/">HP</a></td></tr>
-<tr bgcolor="#606060"><td class="MapsTblColNo">関東</td><td class="MapsTblColSt">神奈川県</td><td class="MapsTblColNm">横浜みなと呼吸器内科</td><td class="MapsTblColEn">1</td><td class="MapsTblColOL">?</td><td class="MapsTblColRS">?</td><td class="MapsTblColCd">療養終了後</td><td class="MapsTblColHP"><a href="https://yhmm.jp/news/0201kouisho/">HP</a></td></tr>
-<tr bgcolor="#000000"><td class="MapsTblColNo">関東</td><td class="MapsTblColSt">神奈川県</td><td class="MapsTblColNm">湘南病院</td><td class="MapsTblColEn">1</td><td class="MapsTblColOL">?</td><td class="MapsTblColRS">?</td><td class="MapsTblColCd">発症3週間後</td><td class="MapsTblColHP"><a href="https://www.shonanhp.or.jp/imeges/main/info-kanpo-2021-2.pdf">HP</a></td></tr>
-<tr bgcolor="#606060"><td class="MapsTblColNo">関東</td><td class="MapsTblColSt">神奈川県</td><td class="MapsTblColNm">第二川崎幸クリニック</td><td class="MapsTblColEn">1</td><td class="MapsTblColOL">-</td><td class="MapsTblColRS">-</td><td class="MapsTblColCd">退院/療養後2か月</td><td class="MapsTblColHP"><a href="https://saiwaicl-2.jp/topics/detail.php?id=610">HP</a></td></tr>
-<tr bgcolor="#000000"><td class="MapsTblColNo">関東</td><td class="MapsTblColSt">神奈川県</td><td class="MapsTblColNm">土屋記念クリニック</td><td class="MapsTblColEn">1</td><td class="MapsTblColOL">-</td><td class="MapsTblColRS">-</td><td class="MapsTblColCd">初診は対面診察/検査</td><td class="MapsTblColHP"><a href="https://tsuchiya-kinen-clinic.com/topics/item766">HP</a></td></tr>
-<tr bgcolor="#606060"><td class="MapsTblColNo">中部</td><td class="MapsTblColSt">愛知県</td><td class="MapsTblColNm">末盛内科クリニック</td><td class="MapsTblColEn">1</td><td class="MapsTblColOL">-</td><td class="MapsTblColRS">-</td><td class="MapsTblColCd">-</td><td class="MapsTblColHP"><a href="https://suemori-clinic.com/2021/02/07/">HP</a></td></tr>
-<tr bgcolor="#000000"><td class="MapsTblColNo">中部</td><td class="MapsTblColSt">愛知県</td><td class="MapsTblColNm">佐藤脳神経外科・内科・外科</td><td class="MapsTblColEn">1</td><td class="MapsTblColOL">?</td><td class="MapsTblColRS">?</td><td class="MapsTblColCd">神経症状中心</td><td class="MapsTblColHP"><a href="https://sato-nou.com/long-covid/#cv01">HP</a></td></tr>
-<tr bgcolor="#606060"><td class="MapsTblColNo">中部</td><td class="MapsTblColSt">石川県</td><td class="MapsTblColNm">ながたクリニック</td><td class="MapsTblColEn">1</td><td class="MapsTblColOL">-</td><td class="MapsTblColRS">-</td><td class="MapsTblColCd">紹介状があった方が良い</td><td class="MapsTblColHP"><a href="https://www.blue-dolphin.net/%E3%83%9D%E3%82%B9%E3%82%B3%E3%83%AD%E5%A4%96%E6%9D%A5">HP</a></td></tr>
-<tr bgcolor="#000000"><td class="MapsTblColNo">近畿</td><td class="MapsTblColSt">大阪府</td><td class="MapsTblColNm">ナカトミファティーグケアクリニック</td><td class="MapsTblColEn">1</td><td class="MapsTblColOL">-</td><td class="MapsTblColRS">必要</td><td class="MapsTblColCd">3カ月以上経過</td><td class="MapsTblColHP"><a href="http://tukare.jp/news/2020/11/20/post-40.html">HP</a></td></tr>
-<tr bgcolor="#606060"><td class="MapsTblColNo">近畿</td><td class="MapsTblColSt">京都府</td><td class="MapsTblColNm">御所南はらしまクリニック</td><td class="MapsTblColEn">1</td><td class="MapsTblColOL">?</td><td class="MapsTblColRS">?</td><td class="MapsTblColCd">-</td><td class="MapsTblColHP"><a href="https://www.harashimaclinic.com/">HP</a></td></tr>
-<tr bgcolor="#000000"><td class="MapsTblColNo">近畿</td><td class="MapsTblColSt">兵庫県</td><td class="MapsTblColNm">長尾クリニック</td><td class="MapsTblColEn">1</td><td class="MapsTblColOL">-</td><td class="MapsTblColRS">?</td><td class="MapsTblColCd">-</td><td class="MapsTblColHP"><a href="http://blog.drnagao.com/2021/02/post-7498.html">HP</a></td></tr>
-<tr bgcolor="#606060"><td class="MapsTblColNo">中国</td><td class="MapsTblColSt">岡山県</td><td class="MapsTblColNm">岡山大学病院</td><td class="MapsTblColEn">1</td><td class="MapsTblColOL">-</td><td class="MapsTblColRS">必要</td><td class="MapsTblColCd">1カ月以上経過</td><td class="MapsTblColHP"><a href="http://medica.sanyonews.jp/article/18130">HP</a></td></tr>
-<tr bgcolor="#000000"><td class="MapsTblColNo">中国</td><td class="MapsTblColSt">島根県</td><td class="MapsTblColNm">福田内科クリニック</td><td class="MapsTblColEn">1</td><td class="MapsTblColOL">可</td><td class="MapsTblColRS">-</td><td class="MapsTblColCd">対面診療の可能性有</td><td class="MapsTblColHP"><a href="https://clinics.medley.life/clinics/5ae2fe7eccbc572e33a34edd">HP</a></td></tr>
-<tr bgcolor="#606060"><td class="MapsTblColNo">九州</td><td class="MapsTblColSt">福岡県</td><td class="MapsTblColNm">天神けやきクリニック</td><td class="MapsTblColEn">0</td><td class="MapsTblColOL">-</td><td class="MapsTblColRS">-</td><td class="MapsTblColCd">-</td><td class="MapsTblColHP"><a href="https://tenjinkeyaki.com/medical/medical39.html">HP</a></td></tr>
-<tr bgcolor="#000000"><td class="MapsTblColNo">九州</td><td class="MapsTblColSt">福岡県</td><td class="MapsTblColNm">みらいクリニック</td><td class="MapsTblColEn">1</td><td class="MapsTblColOL">-</td><td class="MapsTblColRS">-</td><td class="MapsTblColCd">1カ月以上経過</td><td class="MapsTblColHP"><a href="https://mirai-iryou.com/info/longcovid_20210207/">HP</a></td></tr>
+<tr bgcolor="#000000"><td class="MapsTblColNo">関東</td><td class="MapsTblColSt">埼玉県</td><td class="MapsTblColNm">ふじみの救急病院</td><td class="MapsTblColEn">0</td><td class="MapsTblColOL">可</td><td class="MapsTblColRS">-</td><td class="MapsTblColCd">3月中旬〜下旬に新設予定</td><td class="MapsTblColHP"><a href="https://koyu-kai.jp/allnews.html">HP</a></td></tr>
+<tr bgcolor="#606060"><td class="MapsTblColNo">関東</td><td class="MapsTblColSt">千葉県</td><td class="MapsTblColNm">クリニック柏の葉</td><td class="MapsTblColEn">1</td><td class="MapsTblColOL">-</td><td class="MapsTblColRS">-</td><td class="MapsTblColCd">嗅覚味覚障害外来</td><td class="MapsTblColHP"><a href="https://cl-kashiwanoha.jp/category/news/#no20210205083016">HP</a></td></tr>
+<tr bgcolor="#000000"><td class="MapsTblColNo">関東</td><td class="MapsTblColSt">神奈川県</td><td class="MapsTblColNm">聖マリアンナ医科大学病院</td><td class="MapsTblColEn">1</td><td class="MapsTblColOL">-</td><td class="MapsTblColRS">必要</td><td class="MapsTblColCd">2カ月以上経過</td><td class="MapsTblColHP"><a href="https://www.marianna-u.ac.jp/hospital/kanja/specialty/specialty_24.html">HP</a></td></tr>
+<tr bgcolor="#606060"><td class="MapsTblColNo">関東</td><td class="MapsTblColSt">神奈川県</td><td class="MapsTblColNm">横浜かんだいじファミリークリニック</td><td class="MapsTblColEn">1</td><td class="MapsTblColOL">-</td><td class="MapsTblColRS">-</td><td class="MapsTblColCd">来院が基本</td><td class="MapsTblColHP"><a href="https://yokohama-kandaiji-family-clinic.jp/LONG-COVID">HP</a></td></tr>
+<tr bgcolor="#000000"><td class="MapsTblColNo">関東</td><td class="MapsTblColSt">神奈川県</td><td class="MapsTblColNm">梶が谷駅前クリニック</td><td class="MapsTblColEn">1</td><td class="MapsTblColOL">可</td><td class="MapsTblColRS">-</td><td class="MapsTblColCd">-</td><td class="MapsTblColHP"><a href="https://kajigayaekimaenaika-clinic.com">HP</a></td></tr>
+<tr bgcolor="#606060"><td class="MapsTblColNo">関東</td><td class="MapsTblColSt">神奈川県</td><td class="MapsTblColNm">新川崎むらせ内科循環器内科</td><td class="MapsTblColEn">1</td><td class="MapsTblColOL">-</td><td class="MapsTblColRS">-</td><td class="MapsTblColCd">隔離期間終了</td><td class="MapsTblColHP"><a href="http://shinkawasaki-murase.com/blog/2021/02/01/">HP</a></td></tr>
+<tr bgcolor="#000000"><td class="MapsTblColNo">関東</td><td class="MapsTblColSt">神奈川県</td><td class="MapsTblColNm">横浜みなと呼吸器内科</td><td class="MapsTblColEn">1</td><td class="MapsTblColOL">?</td><td class="MapsTblColRS">?</td><td class="MapsTblColCd">療養終了後</td><td class="MapsTblColHP"><a href="https://yhmm.jp/news/0201kouisho/">HP</a></td></tr>
+<tr bgcolor="#606060"><td class="MapsTblColNo">関東</td><td class="MapsTblColSt">神奈川県</td><td class="MapsTblColNm">湘南病院</td><td class="MapsTblColEn">1</td><td class="MapsTblColOL">?</td><td class="MapsTblColRS">?</td><td class="MapsTblColCd">発症3週間後</td><td class="MapsTblColHP"><a href="https://www.shonanhp.or.jp/imeges/main/info-kanpo-2021-2.pdf">HP</a></td></tr>
+<tr bgcolor="#000000"><td class="MapsTblColNo">関東</td><td class="MapsTblColSt">神奈川県</td><td class="MapsTblColNm">第二川崎幸クリニック</td><td class="MapsTblColEn">1</td><td class="MapsTblColOL">-</td><td class="MapsTblColRS">-</td><td class="MapsTblColCd">退院/療養後2か月</td><td class="MapsTblColHP"><a href="https://saiwaicl-2.jp/topics/detail.php?id=610">HP</a></td></tr>
+<tr bgcolor="#606060"><td class="MapsTblColNo">関東</td><td class="MapsTblColSt">神奈川県</td><td class="MapsTblColNm">土屋記念クリニック</td><td class="MapsTblColEn">1</td><td class="MapsTblColOL">-</td><td class="MapsTblColRS">-</td><td class="MapsTblColCd">初診は対面診察/検査</td><td class="MapsTblColHP"><a href="https://tsuchiya-kinen-clinic.com/topics/item766">HP</a></td></tr>
+<tr bgcolor="#000000"><td class="MapsTblColNo">中部</td><td class="MapsTblColSt">愛知県</td><td class="MapsTblColNm">末盛内科クリニック</td><td class="MapsTblColEn">1</td><td class="MapsTblColOL">-</td><td class="MapsTblColRS">-</td><td class="MapsTblColCd">-</td><td class="MapsTblColHP"><a href="https://suemori-clinic.com/2021/02/07/">HP</a></td></tr>
+<tr bgcolor="#606060"><td class="MapsTblColNo">中部</td><td class="MapsTblColSt">愛知県</td><td class="MapsTblColNm">佐藤脳神経外科・内科・外科</td><td class="MapsTblColEn">1</td><td class="MapsTblColOL">?</td><td class="MapsTblColRS">?</td><td class="MapsTblColCd">神経症状中心</td><td class="MapsTblColHP"><a href="https://sato-nou.com/long-covid/#cv01">HP</a></td></tr>
+<tr bgcolor="#000000"><td class="MapsTblColNo">中部</td><td class="MapsTblColSt">石川県</td><td class="MapsTblColNm">ながたクリニック</td><td class="MapsTblColEn">1</td><td class="MapsTblColOL">-</td><td class="MapsTblColRS">-</td><td class="MapsTblColCd">紹介状があった方が良い</td><td class="MapsTblColHP"><a href="https://www.blue-dolphin.net/%E3%83%9D%E3%82%B9%E3%82%B3%E3%83%AD%E5%A4%96%E6%9D%A5">HP</a></td></tr>
+<tr bgcolor="#606060"><td class="MapsTblColNo">近畿</td><td class="MapsTblColSt">大阪府</td><td class="MapsTblColNm">ナカトミファティーグケアクリニック</td><td class="MapsTblColEn">1</td><td class="MapsTblColOL">-</td><td class="MapsTblColRS">必要</td><td class="MapsTblColCd">3カ月以上経過</td><td class="MapsTblColHP"><a href="http://tukare.jp/news/2020/11/20/post-40.html">HP</a></td></tr>
+<tr bgcolor="#000000"><td class="MapsTblColNo">近畿</td><td class="MapsTblColSt">京都府</td><td class="MapsTblColNm">御所南はらしまクリニック</td><td class="MapsTblColEn">1</td><td class="MapsTblColOL">?</td><td class="MapsTblColRS">?</td><td class="MapsTblColCd">-</td><td class="MapsTblColHP"><a href="https://www.harashimaclinic.com/">HP</a></td></tr>
+<tr bgcolor="#606060"><td class="MapsTblColNo">近畿</td><td class="MapsTblColSt">兵庫県</td><td class="MapsTblColNm">長尾クリニック</td><td class="MapsTblColEn">1</td><td class="MapsTblColOL">-</td><td class="MapsTblColRS">?</td><td class="MapsTblColCd">-</td><td class="MapsTblColHP"><a href="http://blog.drnagao.com/2021/02/post-7498.html">HP</a></td></tr>
+<tr bgcolor="#000000"><td class="MapsTblColNo">中国</td><td class="MapsTblColSt">岡山県</td><td class="MapsTblColNm">岡山大学病院</td><td class="MapsTblColEn">1</td><td class="MapsTblColOL">-</td><td class="MapsTblColRS">必要</td><td class="MapsTblColCd">1カ月以上経過</td><td class="MapsTblColHP"><a href="http://medica.sanyonews.jp/article/18130">HP</a></td></tr>
+<tr bgcolor="#606060"><td class="MapsTblColNo">中国</td><td class="MapsTblColSt">島根県</td><td class="MapsTblColNm">福田内科クリニック</td><td class="MapsTblColEn">1</td><td class="MapsTblColOL">可</td><td class="MapsTblColRS">-</td><td class="MapsTblColCd">対面診療の可能性有</td><td class="MapsTblColHP"><a href="https://clinics.medley.life/clinics/5ae2fe7eccbc572e33a34edd">HP</a></td></tr>
+<tr bgcolor="#000000"><td class="MapsTblColNo">九州</td><td class="MapsTblColSt">福岡県</td><td class="MapsTblColNm">天神けやきクリニック</td><td class="MapsTblColEn">0</td><td class="MapsTblColOL">-</td><td class="MapsTblColRS">-</td><td class="MapsTblColCd">-</td><td class="MapsTblColHP"><a href="https://tenjinkeyaki.com/medical/medical39.html">HP</a></td></tr>
+<tr bgcolor="#606060"><td class="MapsTblColNo">九州</td><td class="MapsTblColSt">福岡県</td><td class="MapsTblColNm">みらいクリニック</td><td class="MapsTblColEn">1</td><td class="MapsTblColOL">-</td><td class="MapsTblColRS">-</td><td class="MapsTblColCd">1カ月以上経過</td><td class="MapsTblColHP"><a href="https://mirai-iryou.com/info/longcovid_20210207/">HP</a></td></tr>
 </tbody></table>
